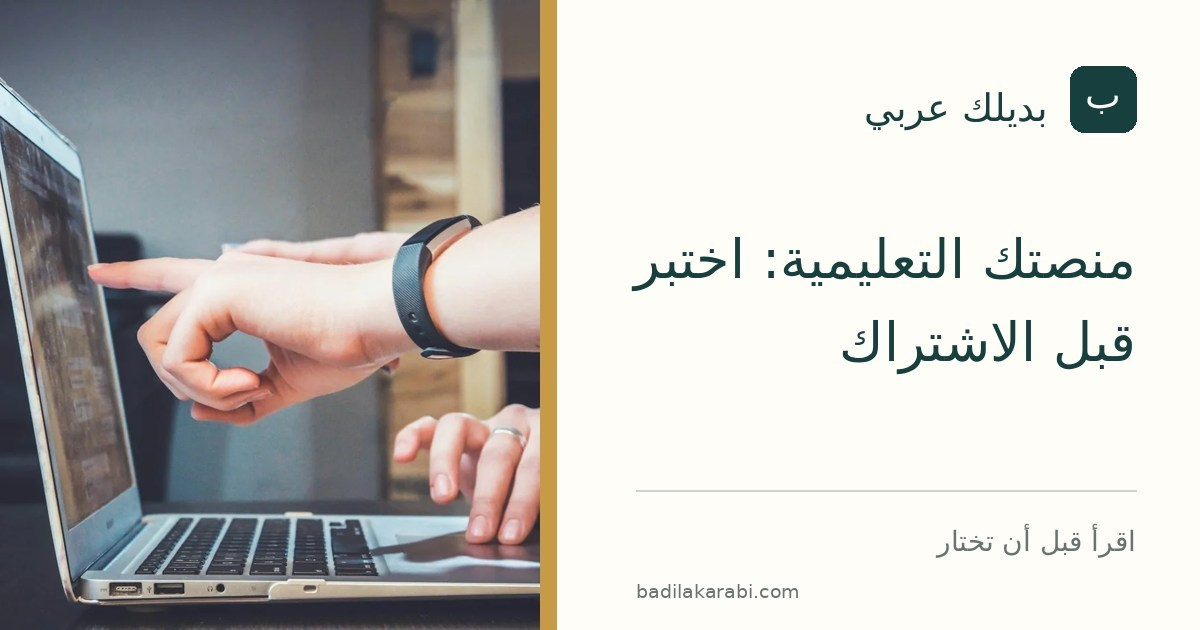
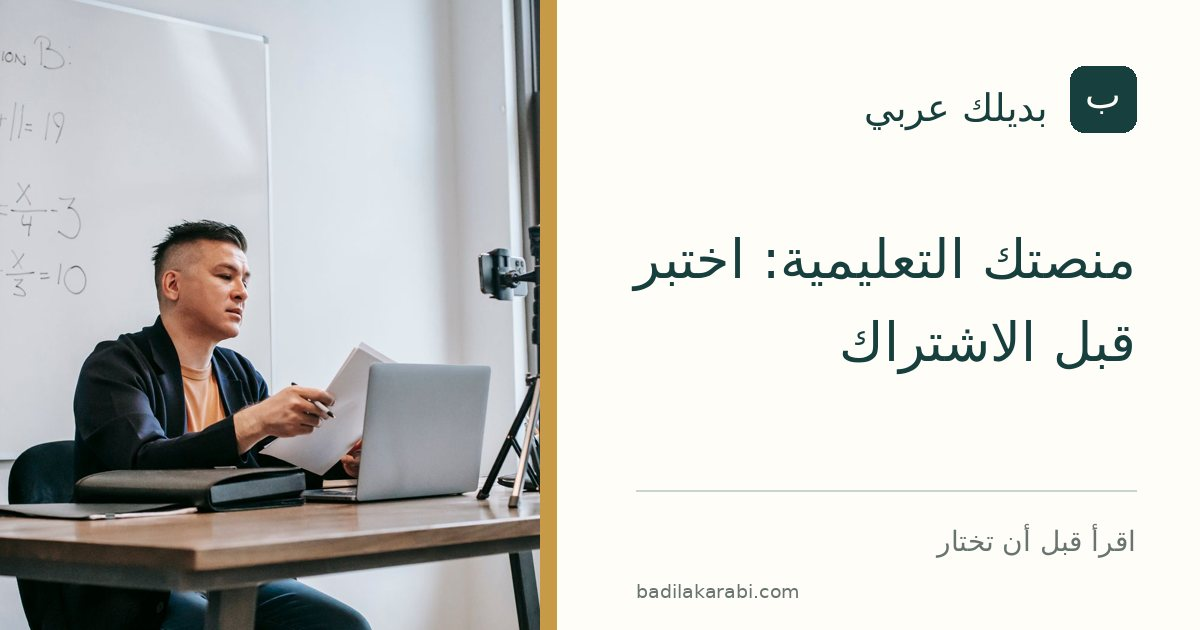
Replace duplicated editorial cover photos with distinct licensed images (#15)

diff --git a/guides/create-online-academy.html b/guides/create-online-academy.html
@@ -6,14 +6,14 @@
 <meta property="og:title" content="منصتك التعليمية: اختبر قبل الاشتراك">
 <meta property="og:description" content="قبل نقل دروسك وطلابك إلى منصة تعليمية، قارن إدارة الدروس والاختبارات والدفع وتصدير البيانات والصلاحيات بتجربة صغيرة.">
 <meta property="og:url" content="https://badilak-arabi.vercel.app/guides/create-online-academy">
-<meta property="og:image" content="https://badilak-arabi.vercel.app/images/articles/create-online-academy-social.jpg?v=576cf6baf6">
+<meta property="og:image" content="https://badilak-arabi.vercel.app/images/articles/create-online-academy-social.jpg?v=251d542d8b">
 <meta property="og:image:width" content="1200">
 <meta property="og:image:height" content="630">
-<meta property="og:image:alt" content="شرح باستخدام حاسوب في جلسة تعلّم">
+<meta property="og:image:alt" content="مدرّس أمام حاسوب وكاميرا لتقديم درس عن بُعد">
 <meta name="twitter:card" content="summary_large_image">
 <meta name="twitter:title" content="منصتك التعليمية: اختبر قبل الاشتراك">
 <meta name="twitter:description" content="قبل نقل دروسك وطلابك إلى منصة تعليمية، قارن إدارة الدروس والاختبارات والدفع وتصدير البيانات والصلاحيات بتجربة صغيرة.">
-<meta name="twitter:image" content="https://badilak-arabi.vercel.app/images/articles/create-online-academy-social.jpg?v=576cf6baf6"><link rel="preload" href="/fonts/google-6c9f4bab97d6.woff2" as="font" type="font/woff2" crossorigin>
+<meta name="twitter:image" content="https://badilak-arabi.vercel.app/images/articles/create-online-academy-social.jpg?v=251d542d8b"><link rel="preload" href="/fonts/google-6c9f4bab97d6.woff2" as="font" type="font/woff2" crossorigin>
 <link rel="preload" href="/fonts/google-41f1e64ff8db.woff2" as="font" type="font/woff2" crossorigin>
 <link rel="preload" href="/fonts/google-bf43e79904fc.woff2" as="font" type="font/woff2" crossorigin>
 <link rel="preload" href="/fonts/almarai-700.woff2" as="font" type="font/woff2" crossorigin>
@@ -42,12 +42,12 @@
 .toplinks a{min-height:34px;display:inline-flex;align-items:center;padding-block:5px}
 .jumpbar a,.source-card,.next-actions a,.related a{min-height:34px}
 @media(max-width:650px){.hero{padding:36px 0 18px!important}.human-question{margin:18px 0 22px!important}}
-</style><meta property="og:image:secure_url" content="https://badilak-arabi.vercel.app/images/articles/create-online-academy-social.jpg?v=576cf6baf6">
+</style><meta property="og:image:secure_url" content="https://badilak-arabi.vercel.app/images/articles/create-online-academy-social.jpg?v=251d542d8b">
 <meta property="og:image:type" content="image/jpeg">
-<meta name="twitter:image:alt" content="شرح باستخدام حاسوب في جلسة تعلّم">
+<meta name="twitter:image:alt" content="مدرّس أمام حاسوب وكاميرا لتقديم درس عن بُعد">
 <link rel="stylesheet" href="/css/article-media.css">
 <link rel="stylesheet" href="/css/visual-refresh.css">
 </head><body>
 <header class="top"><div class="wrap topin"><a class="brand" href="/">بديلك عربي</a><nav class="toplinks"><a href="/#directory">الدليل</a><a href="/guides">اقرأ</a><a href="/#competitionIndex">المرصد</a></nav></div></header>
-<main class="wrap" data-content-concise="true"><section class="hero"><span class="kicker">للعمل والمشاريع</span><h1>كيف تختار منصة تعليمية باسمك؟ دليل للمدرّس وصاحب الأكاديمية</h1><p class="lead">قبل نقل دروسك وطلابك إلى منصة تعليمية، قارن إدارة الدروس والاختبارات والدفع وتصدير البيانات والصلاحيات بتجربة صغيرة.</p><div class="stamp"><span>آخر مراجعة تحريرية: 29 أكتوبر 2026</span></div></section><!-- article-media:start --><figure class="article-cover"><img src="/images/articles/create-online-academy-cover.webp" alt="شرح باستخدام حاسوب في جلسة تعلّم" width="1200" height="675" fetchpriority="high"><figcaption>الصورة: Unsplash · <a href="https://images.unsplash.com/photo-1516321318423-f06f85e504b3?w=1400&amp;q=85&amp;fit=max" target="_blank" rel="noopener">المصدر</a> · <a href="https://unsplash.com/license" target="_blank" rel="noopener">Unsplash License</a></figcaption></figure><!-- article-media:end --><div class="guide-shell"><p class="lead">إذا كنت تريد تقديم دروسك وبيعها عبر الإنترنت، فأنت تبحث عن أداة لإدارة نشاطك التعليمي، لا عن منصة تأخذ منها دورة. ابدأ بما يحتاجه طلابك وما يستهلك وقتك: تسليم الدروس، متابعة الواجبات، تنظيم الحضور أم تحصيل المدفوعات؟</p><nav class="jumpbar" aria-label="التنقل داخل الدليل"><a href="#step-1">الخلاصة</a><a href="#step-8">التجربة</a><a href="#sources">المصادر</a></nav><article><section id="step-1"><p>اكتب أهم ثلاث مهام تحتاجها، ثم جرّب دورة قصيرة بحسابات تجريبية. لا يكفي أن تبدو صفحة الكورس جميلة؛ ينبغي أن تتمكن أنت والطالب والمساعد من إتمام المهام المطلوبة، وأن تعرف كيف تسترد محتواك وبياناتك إذا قررت المغادرة.</p></section><section id="step-2"><h2>1. حدّد ما ستديره</h2><p>هل تقدّم دورة مسجلة فقط، أم حصصًا مباشرة، أم تجمع بين مركز تعليمي حضوري ودروس عبر الإنترنت؟ اكتب كذلك عدد الطلاب النشطين، وحجم الفيديو، وعدد المساعدين، وطريقة التواصل المطلوبة.</p><p>هذه قائمة احتياجاتك، وليست قائمة مزايا يجب شراؤها كلها. قد لا تحتاج تطبيقًا مستقلًا أو بثًا مباشرًا أو أدوات ذكاء اصطناعي في البداية.</p></section><section id="step-3"><h2>2. فرّق بين منصتك ومكتبة الدورات</h2><p>تتيح مكتبة الدورات للمتعلّم الوصول إلى محتوى يقدّمه آخرون. أما أداة إنشاء أكاديمية فتخدم المدرّس أو المؤسسة التي تنشر محتواها وتدير طلابها.</p><p>من أمثلة الفئة الثانية <a href="https://manasatna.com/" target="_blank" rel="noopener noreferrer">منصتنا</a> و<a href="https://snatr.com/" target="_blank" rel="noopener noreferrer">سناتر</a>. هذا تعريف بالفئة وفق صفحتيهما، وليس ترتيبًا للجودة أو نتيجة تجربة مستقلة. راجع الوظائف وحدود الخطة التي ستشترك فيها؛ لا تفترض أن كل ما يظهر على الموقع متاح في كل باقة.</p></section><section id="step-4"><h2>3. احسب ما ستدفعه عند الاستخدام</h2><p>اطلب تكلفة تناسب حالتك، تشمل الاشتراك، والطلاب الإضافيين، وتخزين الفيديو ومشاهدته، والرسائل، والدومين، وأي إعداد أو نقل للمحتوى. اسأل بصورة منفصلة عن رسوم بوابة الدفع والتسوية والاسترداد.</p><p>قارن مثالين: حجمك الحالي، والحجم المتوقع إذا زاد الطلاب. واحتفظ بنسخة من العرض بتاريخها؛ فالسعر الابتدائي وحده لا يوضح تكلفة تشغيل الأكاديمية.</p></section><section id="step-5"><h2>4. اختبر رحلة طالب ومساعد</h2><p>أنشئ درسًا تجريبيًا قصيرًا واختبارًا من سؤالين، ثم افتحه من هاتف طالب تجريبي. هل التسجيل وتشغيل الدرس وتسليم الإجابة واضح؟ وهل تجد النتيجة والمعلومة التي تحتاجها من حساب المدرّس؟</p><p>جرّب حساب مساعد بصلاحيات محدودة. ينبغي أن تعرف ما يستطيع الاطلاع عليه وتعديله، بدل مشاركة حساب الإدارة مع فريق العمل.</p></section><section id="step-6"><h2>5. راجع البيانات وطريقة المغادرة</h2><p>اسأل عن تصدير أسماء الطلاب والحضور والدرجات والمحتوى، والصيغ التي تستلمها، وما يتوقف عند إلغاء الاشتراك. اختبر تصدير عينة تجريبية إذا كانت الوظيفة متاحة، ولا تكتفِ بعبارة «البيانات ملكك».</p><p>اقرأ كذلك سياسة الاحتفاظ والحذف وصلاحيات الدعم ومزوّدي الخدمات الخارجية. توضح <a href="https://manasatna.com/privacy" target="_blank" rel="noopener noreferrer">سياسة منصتنا</a> أن انتهاء الاشتراك لا يعني حذف البيانات تلقائيًا. لا يعمم ذلك على خدمة أخرى؛ راجع سياستها بنفسك. استخدم بيانات وهمية في الاختبار، خصوصًا عند تقييم أدوات تتعامل مع طلاب قُصّر.</p></section><section id="step-7"><h2>6. افهم معنى حماية المحتوى</h2><p>اسأل عن تقليل مشاركة الحسابات والتنزيل، والتعامل مع تسريب المحتوى، وسرعة الدعم. لا تتعامل مع التشفير أو العلامة المائية على أنهما ضمان يمنع كل صور النسخ والتسجيل.</p><p>وتذكّر أن ملكيتك للفيديو لا تعني أنك تملك كود المنصة. افصل بين حقك في المحتوى والبيانات وبين ترخيص استخدام الخدمة.</p></section><section id="step-8"><h2>تجربة صغيرة تساعدك على القرار</h2><ol><li>جهّز درسًا قصيرًا وملفًا واختبارًا، بلا بيانات حقيقية.</li><li>أنشئ حساب طالب تجريبي وحساب مساعد إن أتاحت التجربة ذلك.</li><li>نفّذ رحلة التسجيل والتعلّم والتصحيح على الهاتف.</li><li>راجع الصلاحيات والتصدير والإلغاء وحدود الاستخدام.</li><li>قارن النتائج بقائمة احتياجاتك وبالعرض المكتوب.</li></ol><p>إذا تعذّر اختبار وظيفة أساسية قبل الشراء، اطلب عرضًا يوضحها على حالة شبيهة بحالتك. لا تعتبر هذا العرض دليلًا على أداء الخدمة في كل الظروف.</p></section><section id="step-9"><p>اختر بناءً على المهام التي أتممتها والحدود التي قبلتها والتكلفة التي فهمتها. إذا كانت حاجتك الحالية محدودة، ابدأ بما ينجزها ثم أعد التقييم عند نمو النشاط.</p><p><strong>الخطوة التالية:</strong> <a href="/discover/manasatna">افتح بطاقة منصتنا وحدود المراجعة</a>، أو راجع <a href="/guides/payment-gateway">كيف تختار بوابة دفع عربية؟</a> إذا كان التحصيل أهم ما تحتاج حسمه.</p></section><section id="sources"><h2>مصادر التعريف والسياسات</h2><ul><li><a href="https://manasatna.com/" target="_blank" rel="noopener noreferrer">منصتنا — وصف المنتج</a>.</li><li><a href="https://manasatna.com/pricing" target="_blank" rel="noopener noreferrer">منصتنا — الباقات وحدود الاستخدام</a>.</li><li><a href="https://manasatna.com/privacy" target="_blank" rel="noopener noreferrer">منصتنا — الخصوصية</a>.</li><li><a href="https://manasatna.com/terms" target="_blank" rel="noopener noreferrer">منصتنا — الشروط</a>.</li><li><a href="https://snatr.com/" target="_blank" rel="noopener noreferrer">سناتر — وصف المنتج والباقات المعلنة</a>.</li></ul><p>المراجعة مبنية على الصفحات العامة في 29 أكتوبر 2026. لم ننفذ تجربة حساب أو دفع أو تصدير داخل الخدمتين. هذا دليل اختيار، لا مراجعة أداء أو تزكية تجارية.</p></section></article><nav class="next" aria-label="قراءات مرتبطة"><div class="next-actions"><a href="/discover/manasatna">افتح بطاقة منصتنا ←</a><a href="/guides/payment-gateway">اختيار بوابة دفع ←</a><a href="/guides">كل الأدلة ←</a></div></nav></div></main><footer><div class="wrap">هذه الأدلة تساعدك على المقارنة ولا تستبدل شروط الخدمة الحالية. أي رقم من جهة تجارية يُعرض بوصفه رقمًا تعلنه الجهة ما لم يوجد تحقق مستقل.</div><nav class="policy-links" aria-label="سياسات الموقع"><a href="/privacy">الخصوصية</a> · <a href="/disclosure">الإفصاحات التجارية</a></nav></footer><script src="/js/smart-return.js" defer></script>
+<main class="wrap" data-content-concise="true"><section class="hero"><span class="kicker">للعمل والمشاريع</span><h1>كيف تختار منصة تعليمية باسمك؟ دليل للمدرّس وصاحب الأكاديمية</h1><p class="lead">قبل نقل دروسك وطلابك إلى منصة تعليمية، قارن إدارة الدروس والاختبارات والدفع وتصدير البيانات والصلاحيات بتجربة صغيرة.</p><div class="stamp"><span>آخر مراجعة تحريرية: 29 أكتوبر 2026</span></div></section><!-- article-media:start --><figure class="article-cover"><img src="/images/articles/create-online-academy-cover.webp" alt="مدرّس أمام حاسوب وكاميرا لتقديم درس عن بُعد" width="1200" height="675" fetchpriority="high"><figcaption>الصورة: Vanessa Garcia / Pexels · <a href="https://www.pexels.com/photo/photo-of-man-looking-at-the-paper-6326386/" target="_blank" rel="noopener">المصدر</a> · <a href="https://www.pexels.com/legal-pages/license/" target="_blank" rel="noopener">Pexels License</a></figcaption></figure><!-- article-media:end --><div class="guide-shell"><p class="lead">إذا كنت تريد تقديم دروسك وبيعها عبر الإنترنت، فأنت تبحث عن أداة لإدارة نشاطك التعليمي، لا عن منصة تأخذ منها دورة. ابدأ بما يحتاجه طلابك وما يستهلك وقتك: تسليم الدروس، متابعة الواجبات، تنظيم الحضور أم تحصيل المدفوعات؟</p><nav class="jumpbar" aria-label="التنقل داخل الدليل"><a href="#step-1">الخلاصة</a><a href="#step-8">التجربة</a><a href="#sources">المصادر</a></nav><article><section id="step-1"><p>اكتب أهم ثلاث مهام تحتاجها، ثم جرّب دورة قصيرة بحسابات تجريبية. لا يكفي أن تبدو صفحة الكورس جميلة؛ ينبغي أن تتمكن أنت والطالب والمساعد من إتمام المهام المطلوبة، وأن تعرف كيف تسترد محتواك وبياناتك إذا قررت المغادرة.</p></section><section id="step-2"><h2>1. حدّد ما ستديره</h2><p>هل تقدّم دورة مسجلة فقط، أم حصصًا مباشرة، أم تجمع بين مركز تعليمي حضوري ودروس عبر الإنترنت؟ اكتب كذلك عدد الطلاب النشطين، وحجم الفيديو، وعدد المساعدين، وطريقة التواصل المطلوبة.</p><p>هذه قائمة احتياجاتك، وليست قائمة مزايا يجب شراؤها كلها. قد لا تحتاج تطبيقًا مستقلًا أو بثًا مباشرًا أو أدوات ذكاء اصطناعي في البداية.</p></section><section id="step-3"><h2>2. فرّق بين منصتك ومكتبة الدورات</h2><p>تتيح مكتبة الدورات للمتعلّم الوصول إلى محتوى يقدّمه آخرون. أما أداة إنشاء أكاديمية فتخدم المدرّس أو المؤسسة التي تنشر محتواها وتدير طلابها.</p><p>من أمثلة الفئة الثانية <a href="https://manasatna.com/" target="_blank" rel="noopener noreferrer">منصتنا</a> و<a href="https://snatr.com/" target="_blank" rel="noopener noreferrer">سناتر</a>. هذا تعريف بالفئة وفق صفحتيهما، وليس ترتيبًا للجودة أو نتيجة تجربة مستقلة. راجع الوظائف وحدود الخطة التي ستشترك فيها؛ لا تفترض أن كل ما يظهر على الموقع متاح في كل باقة.</p></section><section id="step-4"><h2>3. احسب ما ستدفعه عند الاستخدام</h2><p>اطلب تكلفة تناسب حالتك، تشمل الاشتراك، والطلاب الإضافيين، وتخزين الفيديو ومشاهدته، والرسائل، والدومين، وأي إعداد أو نقل للمحتوى. اسأل بصورة منفصلة عن رسوم بوابة الدفع والتسوية والاسترداد.</p><p>قارن مثالين: حجمك الحالي، والحجم المتوقع إذا زاد الطلاب. واحتفظ بنسخة من العرض بتاريخها؛ فالسعر الابتدائي وحده لا يوضح تكلفة تشغيل الأكاديمية.</p></section><section id="step-5"><h2>4. اختبر رحلة طالب ومساعد</h2><p>أنشئ درسًا تجريبيًا قصيرًا واختبارًا من سؤالين، ثم افتحه من هاتف طالب تجريبي. هل التسجيل وتشغيل الدرس وتسليم الإجابة واضح؟ وهل تجد النتيجة والمعلومة التي تحتاجها من حساب المدرّس؟</p><p>جرّب حساب مساعد بصلاحيات محدودة. ينبغي أن تعرف ما يستطيع الاطلاع عليه وتعديله، بدل مشاركة حساب الإدارة مع فريق العمل.</p></section><section id="step-6"><h2>5. راجع البيانات وطريقة المغادرة</h2><p>اسأل عن تصدير أسماء الطلاب والحضور والدرجات والمحتوى، والصيغ التي تستلمها، وما يتوقف عند إلغاء الاشتراك. اختبر تصدير عينة تجريبية إذا كانت الوظيفة متاحة، ولا تكتفِ بعبارة «البيانات ملكك».</p><p>اقرأ كذلك سياسة الاحتفاظ والحذف وصلاحيات الدعم ومزوّدي الخدمات الخارجية. توضح <a href="https://manasatna.com/privacy" target="_blank" rel="noopener noreferrer">سياسة منصتنا</a> أن انتهاء الاشتراك لا يعني حذف البيانات تلقائيًا. لا يعمم ذلك على خدمة أخرى؛ راجع سياستها بنفسك. استخدم بيانات وهمية في الاختبار، خصوصًا عند تقييم أدوات تتعامل مع طلاب قُصّر.</p></section><section id="step-7"><h2>6. افهم معنى حماية المحتوى</h2><p>اسأل عن تقليل مشاركة الحسابات والتنزيل، والتعامل مع تسريب المحتوى، وسرعة الدعم. لا تتعامل مع التشفير أو العلامة المائية على أنهما ضمان يمنع كل صور النسخ والتسجيل.</p><p>وتذكّر أن ملكيتك للفيديو لا تعني أنك تملك كود المنصة. افصل بين حقك في المحتوى والبيانات وبين ترخيص استخدام الخدمة.</p></section><section id="step-8"><h2>تجربة صغيرة تساعدك على القرار</h2><ol><li>جهّز درسًا قصيرًا وملفًا واختبارًا، بلا بيانات حقيقية.</li><li>أنشئ حساب طالب تجريبي وحساب مساعد إن أتاحت التجربة ذلك.</li><li>نفّذ رحلة التسجيل والتعلّم والتصحيح على الهاتف.</li><li>راجع الصلاحيات والتصدير والإلغاء وحدود الاستخدام.</li><li>قارن النتائج بقائمة احتياجاتك وبالعرض المكتوب.</li></ol><p>إذا تعذّر اختبار وظيفة أساسية قبل الشراء، اطلب عرضًا يوضحها على حالة شبيهة بحالتك. لا تعتبر هذا العرض دليلًا على أداء الخدمة في كل الظروف.</p></section><section id="step-9"><p>اختر بناءً على المهام التي أتممتها والحدود التي قبلتها والتكلفة التي فهمتها. إذا كانت حاجتك الحالية محدودة، ابدأ بما ينجزها ثم أعد التقييم عند نمو النشاط.</p><p><strong>الخطوة التالية:</strong> <a href="/discover/manasatna">افتح بطاقة منصتنا وحدود المراجعة</a>، أو راجع <a href="/guides/payment-gateway">كيف تختار بوابة دفع عربية؟</a> إذا كان التحصيل أهم ما تحتاج حسمه.</p></section><section id="sources"><h2>مصادر التعريف والسياسات</h2><ul><li><a href="https://manasatna.com/" target="_blank" rel="noopener noreferrer">منصتنا — وصف المنتج</a>.</li><li><a href="https://manasatna.com/pricing" target="_blank" rel="noopener noreferrer">منصتنا — الباقات وحدود الاستخدام</a>.</li><li><a href="https://manasatna.com/privacy" target="_blank" rel="noopener noreferrer">منصتنا — الخصوصية</a>.</li><li><a href="https://manasatna.com/terms" target="_blank" rel="noopener noreferrer">منصتنا — الشروط</a>.</li><li><a href="https://snatr.com/" target="_blank" rel="noopener noreferrer">سناتر — وصف المنتج والباقات المعلنة</a>.</li></ul><p>المراجعة مبنية على الصفحات العامة في 29 أكتوبر 2026. لم ننفذ تجربة حساب أو دفع أو تصدير داخل الخدمتين. هذا دليل اختيار، لا مراجعة أداء أو تزكية تجارية.</p></section></article><nav class="next" aria-label="قراءات مرتبطة"><div class="next-actions"><a href="/discover/manasatna">افتح بطاقة منصتنا ←</a><a href="/guides/payment-gateway">اختيار بوابة دفع ←</a><a href="/guides">كل الأدلة ←</a></div></nav></div></main><footer><div class="wrap">هذه الأدلة تساعدك على المقارنة ولا تستبدل شروط الخدمة الحالية. أي رقم من جهة تجارية يُعرض بوصفه رقمًا تعلنه الجهة ما لم يوجد تحقق مستقل.</div><nav class="policy-links" aria-label="سياسات الموقع"><a href="/privacy">الخصوصية</a> · <a href="/disclosure">الإفصاحات التجارية</a></nav></footer><script src="/js/smart-return.js" defer></script>
 </body></html>

diff --git a/js/news-data.js b/js/news-data.js
@@ -1,54 +1,54 @@
 /* Source announcements, separate from resource review dates. No quality ranking. */
 const badilakNews=[
- {id:'jais-3-release',imageArticle:'arabic-ai',title:'إعلان جيس 3: نماذج لغوية عربية مع إصدار مستقل للتعرف على الكلام',eventDate:'2026-10-15',eventLabel:'15 أكتوبر 2026',published:'2026-10-29',reviewed:'2026-10-29',reviewLabel:'29 أكتوبر 2026',related:'jais-3',
+ {id:'jais-3-release',title:'إعلان جيس 3: نماذج لغوية عربية مع إصدار مستقل للتعرف على الكلام',eventDate:'2026-10-15',eventLabel:'15 أكتوبر 2026',published:'2026-10-29',reviewed:'2026-10-29',reviewLabel:'29 أكتوبر 2026',related:'jais-3',
  change:'أعلنت جهات التطوير عن عائلة Jais 3، مع Jais Speech للتعرف على الكلام العربي.',
  audience:'قد يهم المطوّر أو الباحث الذي يريد اختبار نموذج عربي أو بناء تطبيق، وفق موارد تشغيله.',
  limits:'الخصائص ونتائج التقييم معلنة من جهات التطوير. الأوزان المتاحة لا تعني استضافة مجانية، ولم نختبر تطبيق المحادثة أو API.',
  action:'راجع مصدر الإصدار، ثم حدد طريقة الوصول والتكلفة والتجربة التي تناسب حاجتك.',
  source:'https://mbzuai.ac.ae/news-events/news/mbzuais-institute-foundation-models-inception42-launch-jais-3-arabic-native-ai'},
- {id:'falcon-arabic-models',imageArticle:'munsit-otter',title:'Falcon يعلن نماذج منفصلة للهجة الإماراتية والصوت والمستندات',eventDate:'2026-10-06',eventLabel:'6 أكتوبر 2026',published:'2026-10-29',reviewed:'2026-10-29',reviewLabel:'29 أكتوبر 2026',related:'falcon',
+ {id:'falcon-arabic-models',title:'Falcon يعلن نماذج منفصلة للهجة الإماراتية والصوت والمستندات',eventDate:'2026-10-06',eventLabel:'6 أكتوبر 2026',published:'2026-10-29',reviewed:'2026-10-29',reviewLabel:'29 أكتوبر 2026',related:'falcon',
  change:'أعلن TII عن Falcon-Emirati وFalcon-ASR وFalcon-OCR-Arabic، بوظائف مختلفة داخل العائلة.',
  audience:'قد يهم المطوّر أو الباحث الذي يقارن معالجة اللهجات أو التسجيلات أو المستندات العربية.',
  limits:'هذا إعلان من المطور. لم ننفذ اختبار جودة مستقل، ولا يعني ظهور إصدارات أخرى أن نموذج Falcon Arabic القديم حصل على قدراتها.',
  action:'حدّد المهمة ثم راجع الإصدار وطريقة الوصول والترخيص قبل التجربة.',
  source:'https://www.tii.ae/news/tii-launches-falcon-emirati-alongside-new-arabic-ai-models-speech-and-visual-text'},
- {id:'arabicai-saudi-azure',imageArticle:'mostaql-upwork',title:'Arabic.AI تعلن شراكة لإتاحة حلولها عبر منطقة Azure السعودية',eventDate:'2026-10-07',eventLabel:'7 أكتوبر 2026',published:'2026-10-30',reviewed:'2026-10-30',reviewLabel:'30 أكتوبر 2026',related:'arabicai',
+ {id:'arabicai-saudi-azure',title:'Arabic.AI تعلن شراكة لإتاحة حلولها عبر منطقة Azure السعودية',eventDate:'2026-10-07',eventLabel:'7 أكتوبر 2026',published:'2026-10-30',reviewed:'2026-10-30',reviewLabel:'30 أكتوبر 2026',related:'arabicai',
  change:'أعلنت Arabic.AI شراكتها مع مايكروسوفت لإتاحة حلولها عبر منطقة Azure السعودية، مع استضافة البيانات داخل المملكة وفق إعلان الشركة.',
  audience:'قد يهم المؤسسات والمطورين الذين يقارنون خيارات تشغيل الحلول العربية ومتطلبات موقع البيانات.',
  limits:'تحدث الإعلان عن إتاحة المنطقة للعملاء في نوفمبر 2026. لم نتحقق مستقلًا من الإتاحة أو التكلفة أو شروط كل خدمة.',
  action:'راجع متطلبات موقع البيانات والعقد والتكلفة وتاريخ الإتاحة قبل اتخاذ قرار.',
  source:'https://arabic.ai/arabic-ai-joins-microsofts-saudi-arabia-east-datacenter-region-as-a-strategic-ai-partner/'},
- {id:'karnak-chat-pilot',imageArticle:'khamsat-fiverr',title:'إطلاق تجريبي لكرنك شات: مساعد مصري للفصحى واللهجة المصرية',eventDate:'2026-08-23',eventLabel:'23 أغسطس 2026',published:'2026-10-30',reviewed:'2026-10-30',reviewLabel:'30 أكتوبر 2026',related:'karnak',
+ {id:'karnak-chat-pilot',title:'إطلاق تجريبي لكرنك شات: مساعد مصري للفصحى واللهجة المصرية',eventDate:'2026-08-23',eventLabel:'23 أغسطس 2026',published:'2026-10-30',reviewed:'2026-10-30',reviewLabel:'30 أكتوبر 2026',related:'karnak',
  change:'أعلن مركز الابتكار التطبيقي إطلاقًا تجريبيًا لكرنك شات، المبني على نموذج لغوي مصري.',
  audience:'قد يهم من يريد تجربة مساعد يدعم العربية واللهجة المصرية أو تطوير تطبيق عربي.',
  limits:'الإطلاق تجريبي، والقدرات الموصوفة من الجهة المطورة؛ لم نختبر دقته أو خصوصيته بشكل مستقل.',
  action:'جرّب مهمة محددة وقارن النتيجة، وراجع سياسة الخصوصية قبل إدخال بيانات حساسة.',
  source:'https://www.aic.gov.eg/news/43/'},
- {id:'belmasry-pilot',imageArticle:'munsit-otter',title:'بالمصري: إطلاق تجريبي للتفريغ والترجمة وتحويل النص إلى صوت',eventDate:'2026-08-19',eventLabel:'19 أغسطس 2026',published:'2026-10-30',reviewed:'2026-10-30',reviewLabel:'30 أكتوبر 2026',path:'ai',
+ {id:'belmasry-pilot',title:'بالمصري: إطلاق تجريبي للتفريغ والترجمة وتحويل النص إلى صوت',eventDate:'2026-08-19',eventLabel:'19 أغسطس 2026',published:'2026-10-30',reviewed:'2026-10-30',reviewLabel:'30 أكتوبر 2026',path:'ai',
  change:'أعلن مركز الابتكار التطبيقي منصة تجريبية لمعالجة الصوت والترجمة بالفصحى والعامية المصرية.',
  audience:'قد تفيد من يتعامل مع التسجيلات العربية أو يحتاج إلى تحويل النص إلى كلام.',
  limits:'الإمكانات وشروط الإتاحة وفق إعلان الجهة؛ لم نختبر جودة التفريغ أو الترجمة أو تفاصيل الاستخدام المستمر.',
  action:'اختبر عينة غير حساسة، وراجع شروط الاستخدام والخصوصية قبل رفع التسجيلات.',
  source:'https://www.aic.gov.eg/news/44/'},
- {id:'loghat-pilot',imageArticle:'learning-platform',category:'learn',title:'لغات: تطبيق تجريبي لتعلّم الإنجليزية موجّه للمتعلمين في مصر',eventDate:'2026-08-19',eventLabel:'19 أغسطس 2026',published:'2026-10-30',reviewed:'2026-10-30',reviewLabel:'30 أكتوبر 2026',path:'languages',
+ {id:'loghat-pilot',category:'learn',title:'لغات: تطبيق تجريبي لتعلّم الإنجليزية موجّه للمتعلمين في مصر',eventDate:'2026-08-19',eventLabel:'19 أغسطس 2026',published:'2026-10-30',reviewed:'2026-10-30',reviewLabel:'30 أكتوبر 2026',path:'languages',
  change:'أعلن مركز الابتكار التطبيقي إطلاقًا تجريبيًا لتطبيق لغات، لتعلّم الإنجليزية باستخدام الذكاء الاصطناعي.',
  audience:'قد يهم المتعلم الذي يبحث عن ممارسة الإنجليزية بما يناسب السياق المصري.',
  limits:'الوصف مستند إلى إعلان المركز، ولم نختبر المنهج أو فاعلية التعلم أو شروط إتاحة التطبيق.',
  action:'تحقق من إتاحة التطبيق وشروطه، ثم جرّب درسًا وقارن ملاءمته لمستواك.',
  source:'https://www.aic.gov.eg/news/'},
- {id:'paymob-partner-onboarding',imageArticle:'payment-gateway',category:'work',path:'store',eventKind:'تحديث التوثيق',sourceKind:'توثيق رسمي',sourceLabel:'اقرأ توثيق Paymob',title:'Paymob توضّح مسار ضم التجار للشركاء: اتفاق معتمد قبل التكامل',eventDate:'2026-10-01',eventLabel:'1 أكتوبر 2026',published:'2026-10-30',reviewed:'2026-10-30',reviewLabel:'30 أكتوبر 2026',related:'paymob',
+ {id:'paymob-partner-onboarding',category:'work',path:'store',eventKind:'تحديث التوثيق',sourceKind:'توثيق رسمي',sourceLabel:'اقرأ توثيق Paymob',title:'Paymob توضّح مسار ضم التجار للشركاء: اتفاق معتمد قبل التكامل',eventDate:'2026-10-01',eventLabel:'1 أكتوبر 2026',published:'2026-10-30',reviewed:'2026-10-30',reviewLabel:'30 أكتوبر 2026',related:'paymob',
  change:'يوضح توثيق Paymob المحدّث في 1 أكتوبر مسار تسجيل التجار من نظام الشريك، بشرط وجود اتفاق شراكة معتمد.',
  audience:'يهم شركات المنصات والمطورين الذين يبنون تجربة تسجيل للتجار، وليس كل تاجر يريد تفعيل الدفع لمتجره فقط.',
  limits:'تاريخ المصدر تاريخ تحديث التوثيق وليس تاريخ إطلاق الخدمة. لم ننفذ تكاملًا ولم نتحقق من أهلية شريك بعينه أو تسعيره.',
  action:'تحقق أولًا من أهلية اتفاق الشراكة، ثم راجع متطلبات التكامل في التوثيق الرسمي.',
  source:'https://developers.paymob.com/paymob-docs/beyond-payments/partner-onboarding'},
- {id:'paymob-dashboard-guide',imageArticle:'arab-progress',category:'work',paths:['store','business'],eventKind:'تحديث التوثيق',sourceKind:'توثيق رسمي',sourceLabel:'اقرأ دليل لوحة Paymob',title:'دليل لوحة Paymob: متابعة المدفوعات وأسباب فشل العمليات من مكان واحد',eventDate:'2026-09-30',eventLabel:'30 سبتمبر 2026',published:'2026-10-30',reviewed:'2026-10-30',reviewLabel:'30 أكتوبر 2026',related:'paymob',
+ {id:'paymob-dashboard-guide',category:'work',paths:['store','business'],eventKind:'تحديث التوثيق',sourceKind:'توثيق رسمي',sourceLabel:'اقرأ دليل لوحة Paymob',title:'دليل لوحة Paymob: متابعة المدفوعات وأسباب فشل العمليات من مكان واحد',eventDate:'2026-09-30',eventLabel:'30 سبتمبر 2026',published:'2026-10-30',reviewed:'2026-10-30',reviewLabel:'30 أكتوبر 2026',related:'paymob',
  change:'يشرح دليل Paymob المحدّث في 30 سبتمبر لوحة لعرض المعاملات والمبيعات وأسباب فشل الدفع، مع تصفية حسب القناة والفترة والعملة.',
  audience:'يهم صاحب المتجر وفريق التشغيل عند متابعة الطلبات والمدفوعات ومراجعة أسباب التعثر.',
  limits:'هذا تحديث لدليل الاستخدام، وليس دليلًا على أن كل ميزة أُطلقت في ذلك اليوم. لم نختبر حساب تاجر أو إتاحة الوظائف في كل سوق.',
  action:'راجع الوظائف المتاحة في حسابك، ثم تابع أسباب الفشل قبل تغيير بوابة الدفع أو إعدادات المتجر.',
  source:'https://developers.paymob.com/paymob-docs/getting-started/new-dashboard'},
- {id:'thmanyah-radio-guide',imageArticle:'anghami-spotify',category:'culture',path:'reading',eventKind:'تحديث التوثيق',sourceKind:'مركز المساعدة الرسمي',sourceLabel:'اقرأ توضيح ثمانية',title:'راديو ثمانية يوضح الفرق بين الاستماع الأساسي والاشتراك المدفوع',eventDate:'2026-09-16',eventLabel:'16 سبتمبر 2026',published:'2026-10-30',reviewed:'2026-10-30',reviewLabel:'30 أكتوبر 2026',related:'thmanyah',
+ {id:'thmanyah-radio-guide',category:'culture',path:'reading',eventKind:'تحديث التوثيق',sourceKind:'مركز المساعدة الرسمي',sourceLabel:'اقرأ توضيح ثمانية',title:'راديو ثمانية يوضح الفرق بين الاستماع الأساسي والاشتراك المدفوع',eventDate:'2026-09-16',eventLabel:'16 سبتمبر 2026',published:'2026-10-30',reviewed:'2026-10-30',reviewLabel:'30 أكتوبر 2026',related:'thmanyah',
  change:'يوضح مركز مساعدة ثمانية، في صفحة محدّثة بتاريخ 16 سبتمبر، إتاحة الاستماع الأساسي ومزايا إضافية للمشتركين، مع الفصل بين راديو ثمانية وتطبيق بث البطولات.',
  audience:'يهم من يقارن تطبيقات البودكاست والمحتوى الصوتي ويريد معرفة حدود الاشتراك قبل الدفع.',
  limits:'التاريخ يخص تحديث صفحة المساعدة، وليس إطلاق التطبيق. لم نختبر كل محتوى أو باقة، وقد تختلف الإتاحة وفق الجهاز والتحديثات.',
